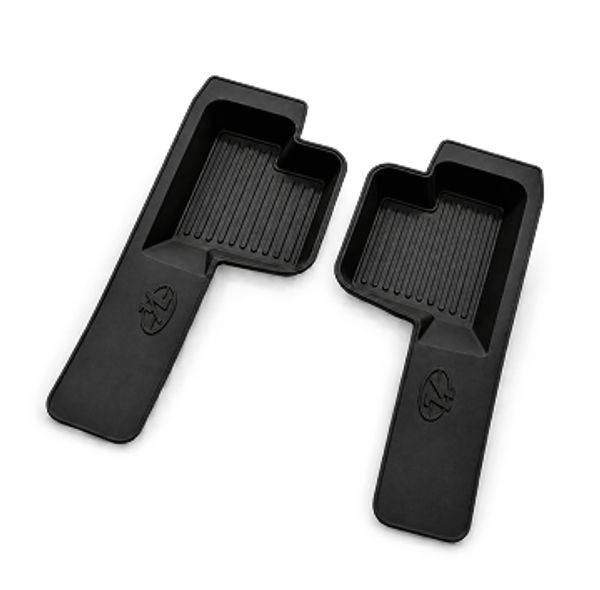
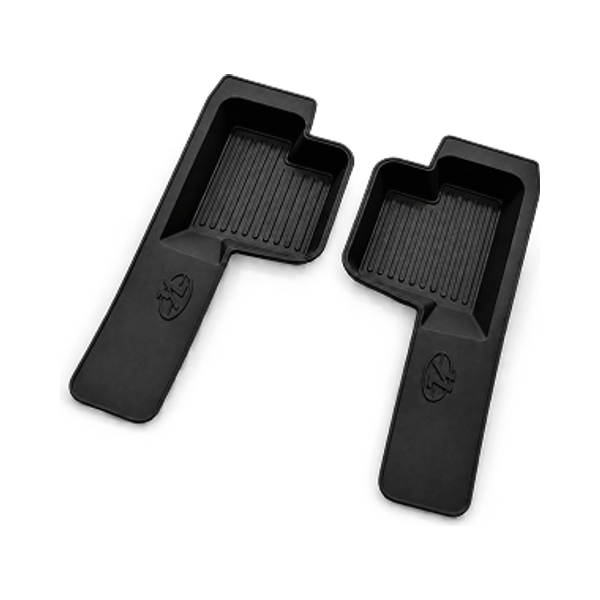
Каталог: фото товаров с одинаковыми полями (600×600), без размытой заглушки при загрузке

Changed region(s): [[0.06, 0.122, 0.93, 0.9458], [0.72, 0.5797, 0.75, 0.7017], [0.27, 0.6102, 0.3, 0.6712]]

diff --git a/src/sections/catalog/styles.css b/src/sections/catalog/styles.css
@@ -41,6 +41,12 @@
     transition: transform 0.3s ease-out;
 }
 
+/* Размытая заглушка ya-kit-image на прозрачных фото товаров выглядит как фон, который потом исчезает —
+   делаем её невидимой (место она занимает, поэтому раскладка не меняется) */
+.catalog__image img[aria-hidden='true'] {
+    opacity: 0 !important;
+}
+
 .catalog__link:hover .catalog__image {
     transform: translateY(-6px);
 }
